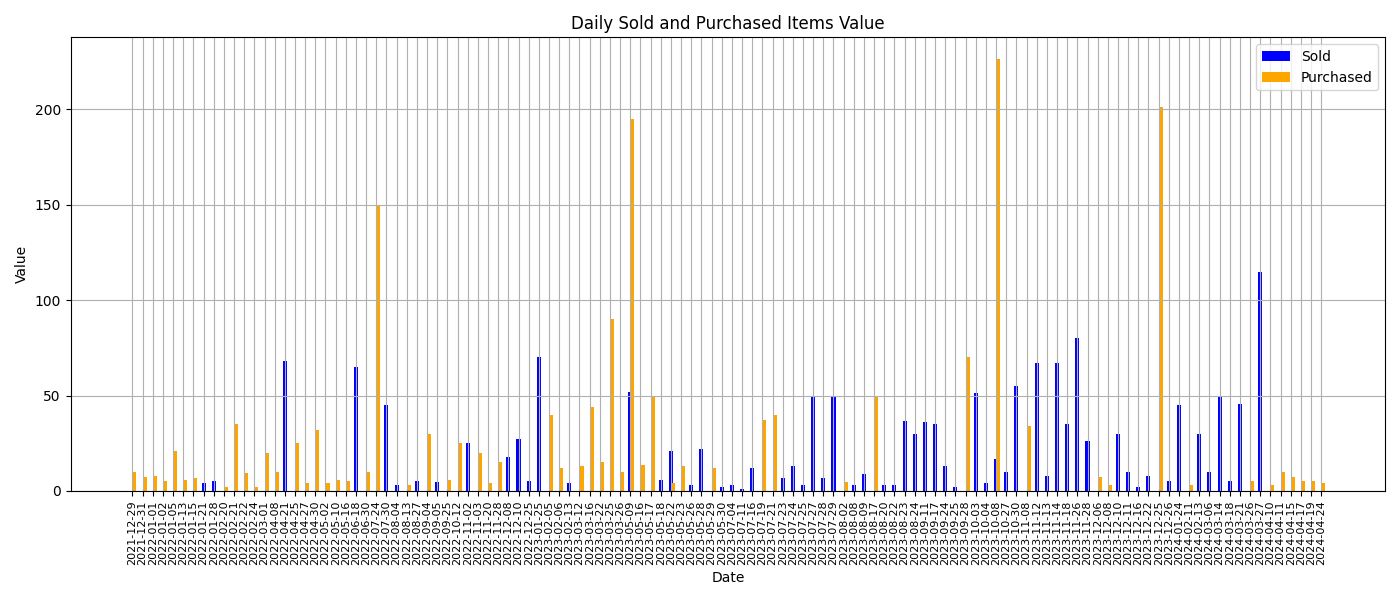
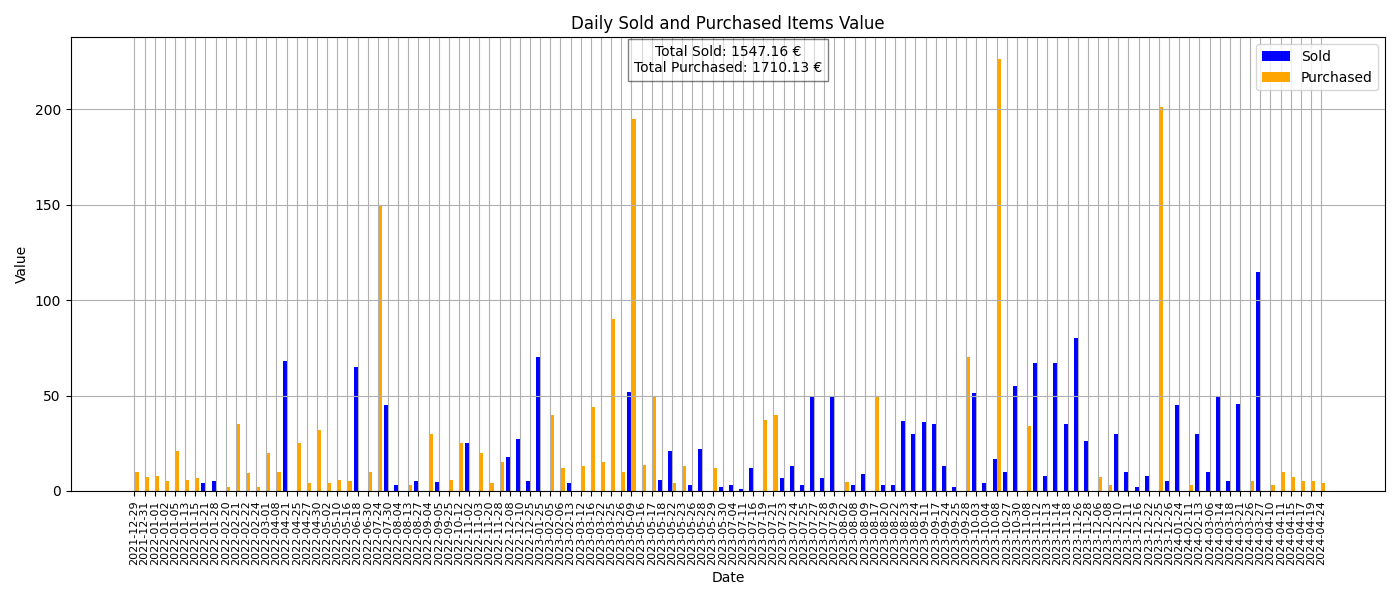
Add Total Values to Graph

Changed region(s): [[0.0921, 0.06, 0.8907, 0.96], [0.86, 0.84, 0.9214, 0.96], [0.7679, 0.84, 0.8293, 0.93]]

diff --git a/main.py b/main.py
@@ -32,14 +32,25 @@ dates = sorted(daily_values.keys())
 sold_values = [daily_values[date]["sold"] for date in dates]
 purchased_values = [daily_values[date]["purchased"] for date in dates]
 
+bar_width = 0.4
+bar_positions_sold = range(len(dates))
+bar_positions_purchased = [pos + bar_width for pos in bar_positions_sold]
+
 plt.figure(figsize=(14, 6))
-plt.bar(dates, sold_values, width=0.4, label="Sold", align="center", color="blue")
-plt.bar(dates, purchased_values, width=0.4, label="Purchased", align="edge", color="orange")
+plt.bar(bar_positions_sold, sold_values, width=bar_width, label="Sold", align="center", color="blue")
+plt.bar(bar_positions_purchased, purchased_values, width=bar_width, label="Purchased", align="center", color="orange")
 plt.xlabel("Date")
 plt.ylabel("Value")
 plt.title("Daily Sold and Purchased Items Value")
-plt.xticks(rotation=90, fontsize=8)
+plt.xticks([pos + bar_width / 2 for pos in bar_positions_sold], dates, rotation=90, fontsize=8)
 plt.legend()
+
+total_sold = sum(sold_values)
+total_purchased = sum(purchased_values)
+plt.text(0.5, 0.95, f"Total Sold: {total_sold:.2f} €\nTotal Purchased: {total_purchased:.2f} €", 
+         horizontalalignment='center', verticalalignment='center', transform=plt.gca().transAxes,
+         fontsize=10, bbox=dict(facecolor='white', alpha=0.5))
+
 plt.grid(True)
 plt.tight_layout()
 plt.show()
